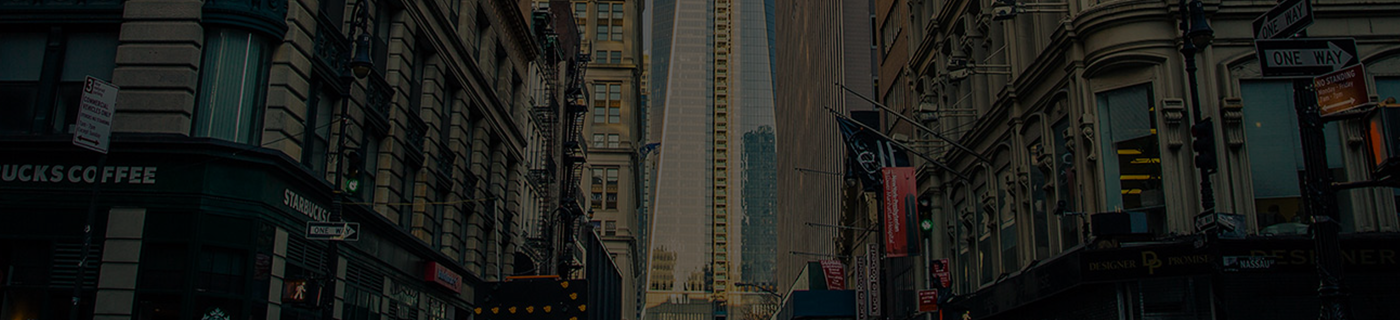
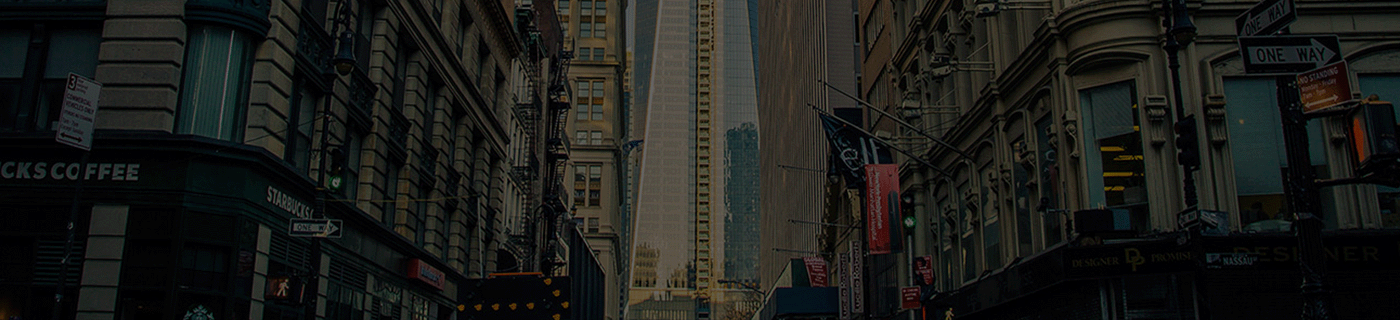
commit

diff --git a/css/main.css b/css/main.css
@@ -38,7 +38,7 @@ button:hover {
 .banner {
   min-height: min-content;
   height: 50vw;
-  background: url(/assets/img/Background-image.png);
+  background: url(/assets/img/imagesm.png);
   max-width: 100%;
   background-repeat: no-repeat;
   background-size: cover;
